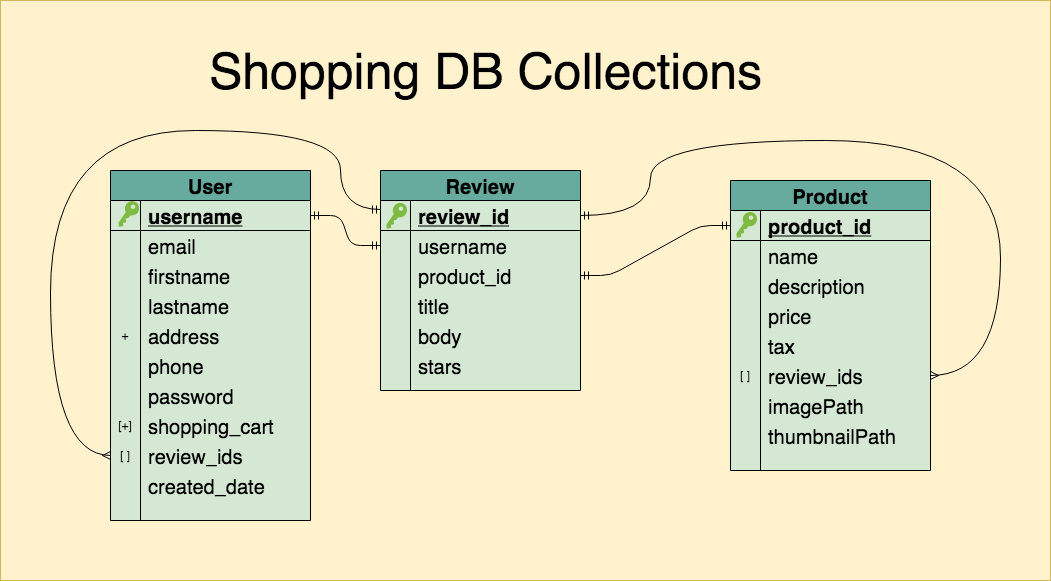
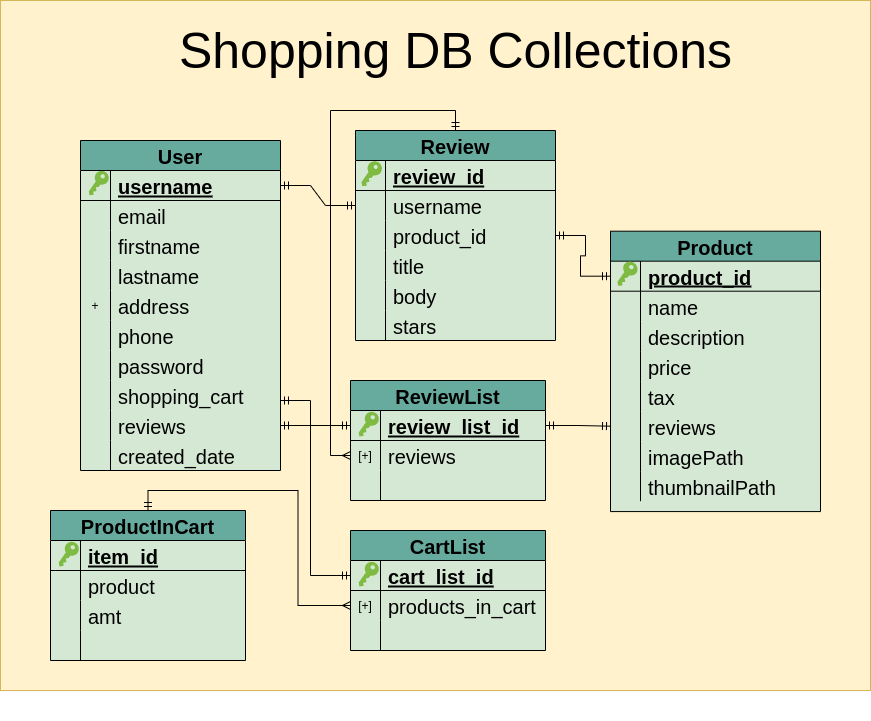
updated database to better take advantage of NoSQL capabilities

diff --git a/designdocs/README.md b/designdocs/README.md
@@ -7,19 +7,45 @@ well as reduce the frontend design needs.
 
 ## Schemas
 
-The core of the schema describes the documents User, Product, and Review.  The ProductInCart schema is used in a subdocument array in the shopping cart:
+The core of the schema describes the documents User, Product,ReviewList, CartList, ProductInCart, and Review.  The user's shopping cart references the id of the CartList schema, which has a subdocument array with all the Products in Cart. Both the User and Product have a reviews field that references the id of the ReviewList schema, which has an array of all the reviews being retrieved in its reviews field.  Thus reviews are copied into two arrays, the one for the user and the one for the product.  Products are also copied into multiple ProductInCart entries. The reason to have multiple copies is to ensure fast retrieval times.
+
+If the purpose is to only retrieve user information, then returning all the review information as well may take extra time, so we will look for the user ID in the schema with only one id, the id of the entire list of reviews.  If we wish to look at the user's reviews, then we want to retrieve a full description of all the reviews at once, not an id list of the reviews.  The reason is if we retrieve an ID list, we will have to individually query the DB server for each ID from the Express server, whereas retrieving a single ID with a list of actual reviews (not review ids) takes constant time and should still be reasonably fast.  Sending multiple queries to the database over the network as would be necessary to retrieve many ids separately is time-intensive, which is what a NoSQL database like MongoDB tries to avoid with this kind of data duplication.  So the purpose of the CartList and ReviewList is to avoid this issue.
+
+Here is a diagram of the Schema:
 
 ![The documents User, Product, and Review with associated fields](basicDBPlan.png "The Basic Schema Plan")
 
 
 ```
 ProductInCart{ 
-	product_id: {
-		type: Number
+	product: {
+		type: Product
 	}
 	amt: {
 		type: Number		
 	}						
+}
+
+CartList {
+	cart_list_id: {
+		type: Number,
+		required: [true, 'review_list_id field is required'],
+		unique: true
+	}
+	products_in_cart: {
+		type: [ProductInCart]
+	}
+}
+
+ReviewList {
+	review_list_id: {
+		type: Number,
+		required: [true, 'review_list_id field is required'],
+		unique: true
+	}
+	reviews: {
+		type: [Review]
+	}
 }
 
 User
@@ -81,14 +107,14 @@ User
 		required: [true, 'password field is required']
 	}
 	shopping_cart: {
-		type: [ProductInCart]		
+		type: Number		
 	}
 	createdDate: {
         type: Date,
         default: Date.now,
     },
-	review_ids: {
-		type: [Number],
+	reviews: {
+		type: Number,
 	}
 	createdDate: {
 		type: Date,
@@ -120,8 +146,8 @@ Product
 		type: Decimal128,
 		required: [true, 'price field is required'],
 	}
-	review_ids: { 
-		type: [Number]
+	reviews: {
+		type: Number,
 	}
 	imagePath: {
 		type: String,
@@ -166,6 +192,7 @@ Review
 		pattern: ^/[1-5]/
 	}
 }
+
 
 ```
 
@@ -261,7 +288,7 @@ The server listens for HTTP commands such as POST, GET, and DELETE to specific r
 ```
 api/auth/signup POST: adds a new User to the database
 
-api/auth/login GET: retrieves one User from the database
+api/auth/login POST: retrieves one User from the database
 
 api/product GET: retrieves one Product to be displayed by axios on its respective product page. This
 includes the Review item list associated with that Product. Then must retrieve each Review document
